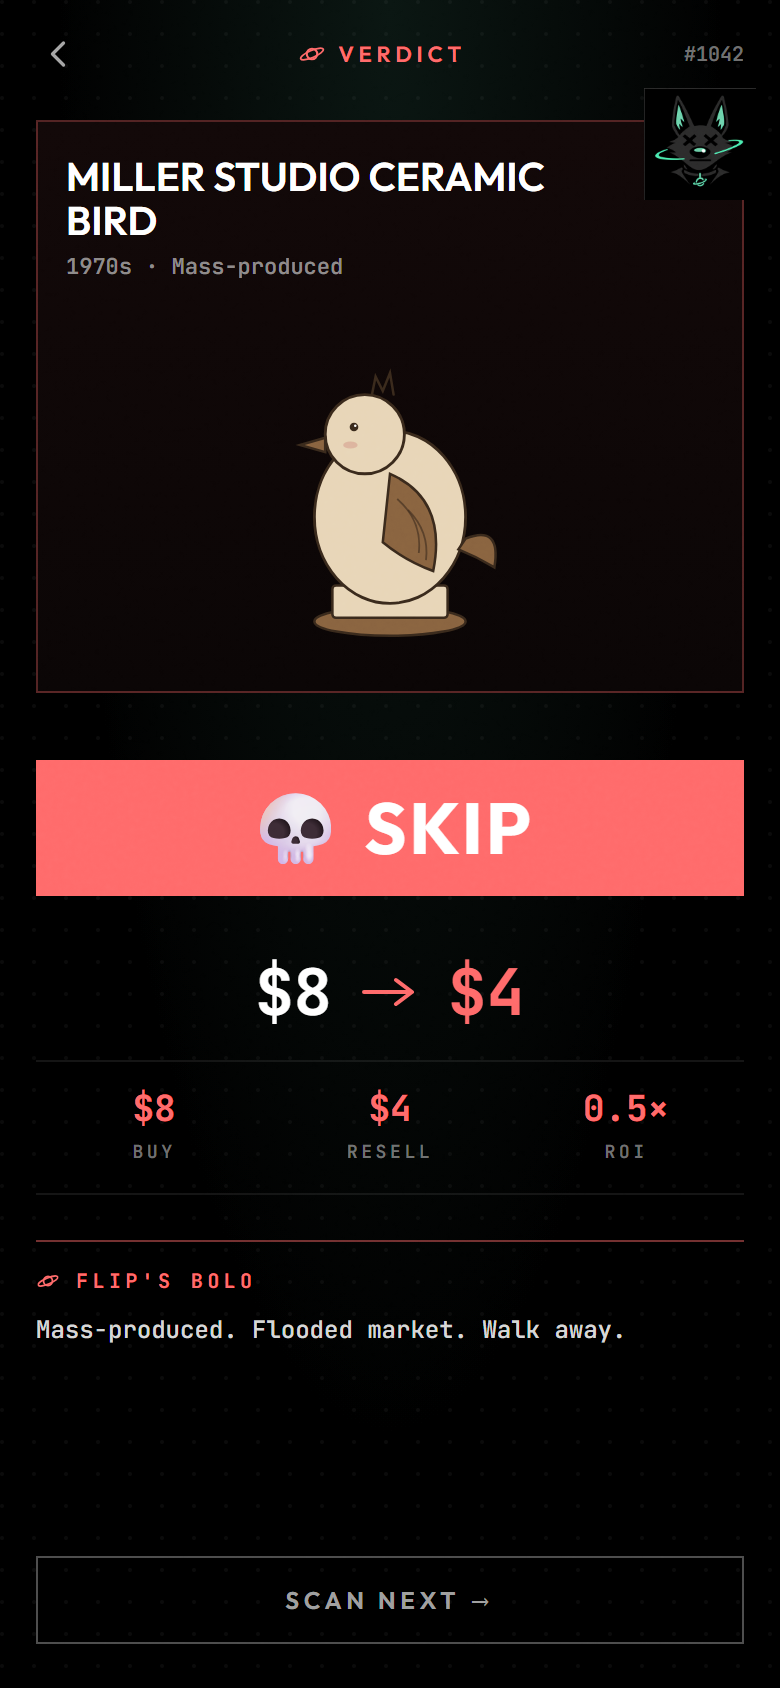
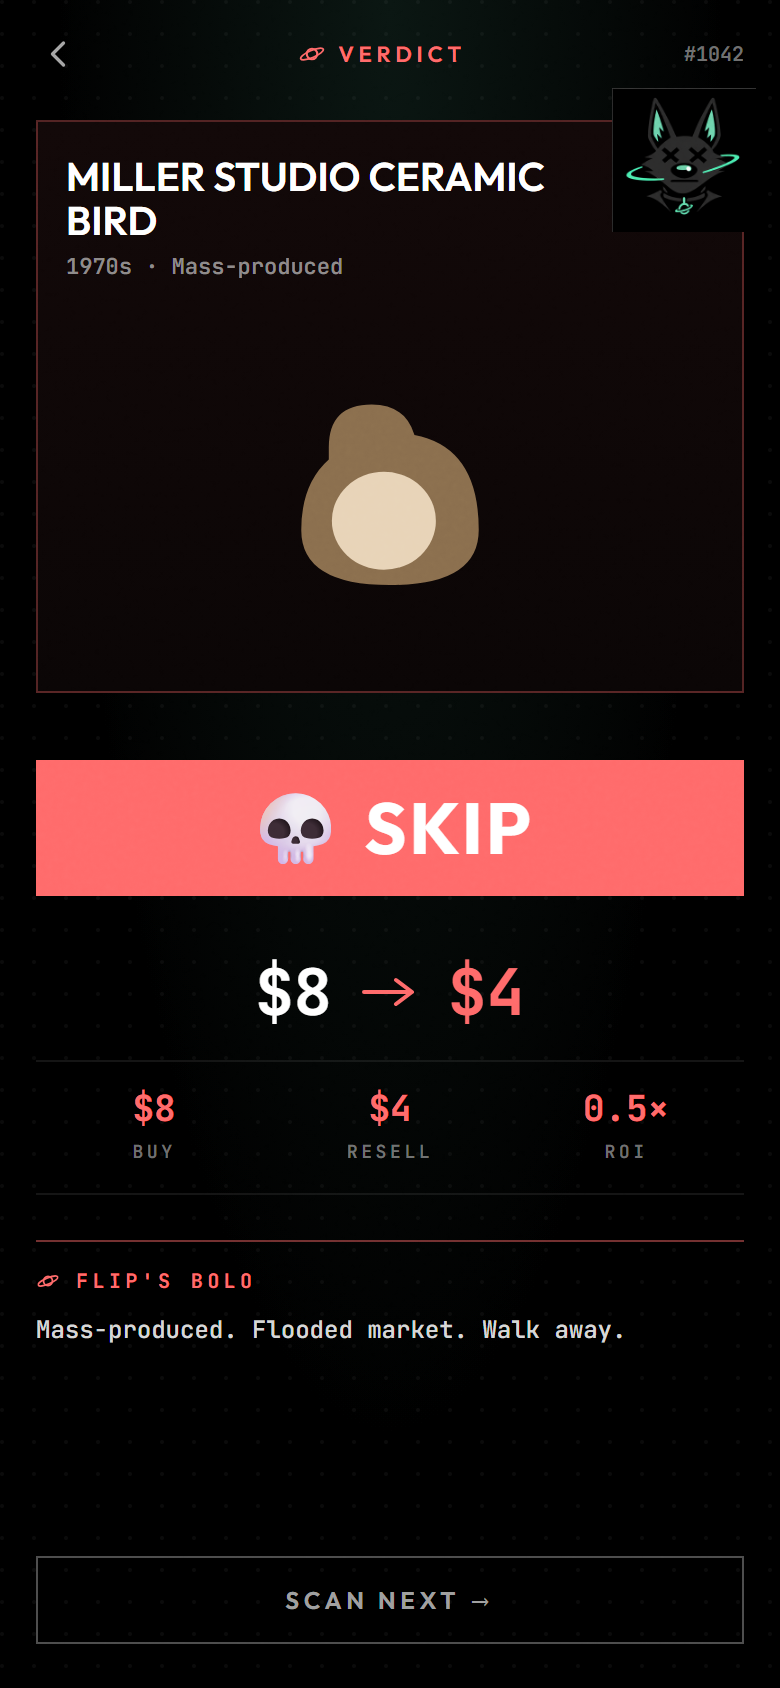
polish(marketing-screens): bump flip mascot + simplify skip item

Changed region(s): [[0.3692, 0.2156, 0.6462, 0.4005], [0.8, 0.0616, 0.9538, 0.1232]]

diff --git a/src/app/marketing-screens/_frame.tsx b/src/app/marketing-screens/_frame.tsx
@@ -336,13 +336,13 @@ export function PyrexBowl({ size = 180 }: { size?: number }) {
 }
 
 /**
- * Vector cartoon kitschy ceramic bird statue.
- * 3 colors: cream body, brown accents, beak/eye black.
+ * Vector ceramic bird figurine — deliberately generic.
+ * Two flat colors, two overlapping shapes, no detail. Reads as
+ * "kitschy mass-produced thing" at thumbnail size.
  */
 export function CeramicBird({ size = 180 }: { size?: number }) {
-  const CREAM = "#E8D6B8";
-  const BROWN = "#8A6440";
-  const DARK = "#3a2a1c";
+  const BROWN = "#8B6F4E";
+  const CREAM = "#E8D4B8";
   return (
     <svg
       width={size}
@@ -350,94 +350,13 @@ export function CeramicBird({ size = 180 }: { size?: number }) {
       viewBox="0 0 200 200"
       style={{ display: "block" }}
     >
-      {/* Base pedestal */}
-      <ellipse
-        cx="100"
-        cy="178"
-        rx="42"
-        ry="8"
+      {/* Body silhouette — squat bird shape, brown */}
+      <path
+        d="M 60 78 Q 60 50 88 50 Q 110 50 116 70 Q 158 78 158 132 Q 158 168 100 168 Q 42 168 42 132 Q 42 102 60 86 Z"
         fill={BROWN}
-        stroke={DARK}
-        strokeWidth="1.4"
       />
-      <rect
-        x="68"
-        y="158"
-        width="64"
-        height="18"
-        rx="2"
-        fill={CREAM}
-        stroke={DARK}
-        strokeWidth="1.4"
-      />
-      {/* Body (egg-shaped) */}
-      <ellipse
-        cx="100"
-        cy="120"
-        rx="42"
-        ry="48"
-        fill={CREAM}
-        stroke={DARK}
-        strokeWidth="1.6"
-      />
-      {/* Wing */}
-      <path
-        d="M 100 96 Q 132 110 124 150 Q 108 144 96 134 Z"
-        fill={BROWN}
-        stroke={DARK}
-        strokeWidth="1.4"
-      />
-      {/* Wing detail lines */}
-      <path
-        d="M 104 110 Q 118 122 116 140"
-        fill="none"
-        stroke={DARK}
-        strokeWidth="1"
-        opacity="0.6"
-      />
-      <path
-        d="M 110 116 Q 122 128 120 144"
-        fill="none"
-        stroke={DARK}
-        strokeWidth="1"
-        opacity="0.6"
-      />
-      {/* Head */}
-      <circle
-        cx="86"
-        cy="74"
-        r="22"
-        fill={CREAM}
-        stroke={DARK}
-        strokeWidth="1.6"
-      />
-      {/* Beak */}
-      <path
-        d="M 64 76 L 50 80 L 64 84 Z"
-        fill={BROWN}
-        stroke={DARK}
-        strokeWidth="1.4"
-      />
-      {/* Eye */}
-      <circle cx="80" cy="70" r="2.4" fill={DARK} />
-      <circle cx="80.7" cy="69.3" r="0.7" fill="#ffffff" />
-      {/* Cheek blush */}
-      <ellipse cx="78" cy="80" rx="4" ry="2" fill="#d49a8a" opacity="0.55" />
-      {/* Tail feather */}
-      <path
-        d="M 142 132 Q 162 124 158 148 Q 148 142 138 138 Z"
-        fill={BROWN}
-        stroke={DARK}
-        strokeWidth="1.4"
-      />
-      {/* Crest */}
-      <path
-        d="M 90 52 L 92 42 L 96 50 L 100 40 L 102 52"
-        fill="none"
-        stroke={DARK}
-        strokeWidth="1.4"
-        strokeLinecap="round"
-      />
+      {/* Cream belly highlight — overlaps the body */}
+      <ellipse cx="96" cy="126" rx="34" ry="32" fill={CREAM} />
     </svg>
   );
 }

diff --git a/src/app/marketing-screens/verdict-skip/page.tsx b/src/app/marketing-screens/verdict-skip/page.tsx
@@ -70,7 +70,7 @@ export default function VerdictSkipScreen() {
           zIndex: 6,
         }}
       >
-        <FlipCoyote mood="dead" size={56} />
+        <FlipCoyote mood="dead" size={72} />
       </div>
 
       {/* Item Card */}
@@ -116,7 +116,7 @@ export default function VerdictSkipScreen() {
             height: 170,
           }}
         >
-          <CeramicBird size={180} />
+          <CeramicBird size={153} />
         </div>
       </div>
 

diff --git a/src/app/marketing-screens/verdict-flip/page.tsx b/src/app/marketing-screens/verdict-flip/page.tsx
@@ -70,7 +70,7 @@ export default function VerdictFlipScreen() {
           zIndex: 6,
         }}
       >
-        <FlipCoyote mood="hyped" size={56} />
+        <FlipCoyote mood="hyped" size={72} />
       </div>
 
       {/* Item Card */}
